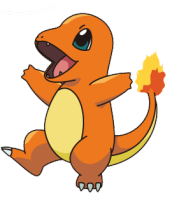
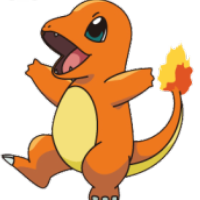
Uploaded images now get a 200X200 copy for the thumbnail. Also added some different styling to the root css file for all pages

Changed region(s): [[0.0, 0.0, 0.9884, 1.0]]

diff --git a/routes/characters.js b/routes/characters.js
@@ -117,10 +117,37 @@ router.post("/api/image", upload.single('photo'), function(req, res, next) {
     if(!err) {
       console.log("No errors! Image is: ");
       console.log(image);
-      image.resize(jimp.AUTO, 200).quality(80)
-      .write("angular-src/src/assets/uploads/resized_images/resized_"
-       + req.file.originalname);
-       //if getWidth > 250) -> cropt to 200x200
+      var width = image.resize(jimp.AUTO, 200).bitmap.width;
+      var height = image.resize(jimp.AUTO, 200).bitmap.height;
+      console.log("Width: "+ width);
+      console.log("Height: " + height);
+      if(width > 200) {
+        //crop the resized image to 200x200
+        image.resize(jimp.AUTO, 200).crop((width - 200)/2, 0, 200, 200).quality(80)
+        .write("angular-src/src/assets/uploads/resized_images/resized_"
+         + req.file.originalname, function(err) {
+           if(err) {
+             console.log("[Cropped] Resized file could not be stored at the path " +
+             "angular-src/src/assets/uploads/resized_images/\n Error: ");
+             console.log(err);
+           } else {
+             console.log("[Croppped] Success! Resized image stored!");
+           }
+         });
+      } else {
+        image.resize(jimp.AUTO, 200).cover(200, 200).quality(80)
+        .write("angular-src/src/assets/uploads/resized_images/resized_"
+         + req.file.originalname, function(err) {
+           if(err) {
+             console.log("Resized file could not be stored at the path " +
+             "angular-src/src/assets/uploads/resized_images/\n Error: ");
+             console.log(err);
+           } else {
+             console.log("Success! Resized image stored!");
+           }
+         });
+      }
+
     } else {
       console.log("Couldn't find file at path " + req.file.path);
       console.log(err);

diff --git a/angular-src/src/app/components/characters/characters.component.html b/angular-src/src/app/components/characters/characters.component.html
@@ -1,15 +1,17 @@
-<div class="row">
-  <div *ngFor="let character of characters" class="col-md-3">
-    <button>
-      <div class="card" style="width: 20rem;">
-        <img class="card-img-top" src="{{ character.imagePath }}" alt="Card image cap">
-        <div class="card-body">
-          <h4 class="card-title">{{ character.name }}</h4>
-          <p class="card-text">{{ character.value }}</p>
+<div>
+  <div class="container-fluid page-content">
+    <div class="row">
+      <div *ngFor="let character of characters">
+        <div class="col-xs-6 col-sm-6 col-md-3">
+          <div class="thumbnail" style="width: 12rem;">
+            <img class="img-responsive" src="{{ character.imagePath }}" alt="Card image cap">
+            <div class="caption">
+              <h4>{{ character.name }}</h4>
+              <p>{{ character.value }}</p>
+            </div>
+          </div>
         </div>
       </div>
-    </button>
-
-
+    </div>
   </div>
 </div>

diff --git a/angular-src/src/index.html b/angular-src/src/index.html
@@ -3,7 +3,7 @@
 <head>
   <meta charset="utf-8">
   <title>Game of Thrones Deadpool</title>
-  <link rel="stylesheet" href="https://bootswatch.com/darkly/bootstrap.min.css">
+  <link rel="stylesheet" href="https://maxcdn.bootstrapcdn.com/bootswatch/3.3.7/cosmo/bootstrap.min.css">
   <base href="/">
 
   <meta name="viewport" content="width=device-width, initial-scale=1">

diff --git a/angular-src/src/styles.css b/angular-src/src/styles.css
@@ -1,1 +1,10 @@
 /* You can add global styles to this file, and also import other style files */
+/* When you are on a device larger than 450px */
+@media screen and (min-width: 450px) {
+  .page-content {
+    width: 60vw;
+    margin-left: auto;
+    margin-right: auto;
+    background-color: black;
+  }
+}

diff --git a/angular-src/src/app/app.component.html b/angular-src/src/app/app.component.html
@@ -1,5 +1,5 @@
 <app-navbar></app-navbar>
-<div class="container">
+<div class="container-fluid">
   <!-- Outlets for our imports -->
   <flash-messages></flash-messages>
   <router-outlet></router-outlet>
